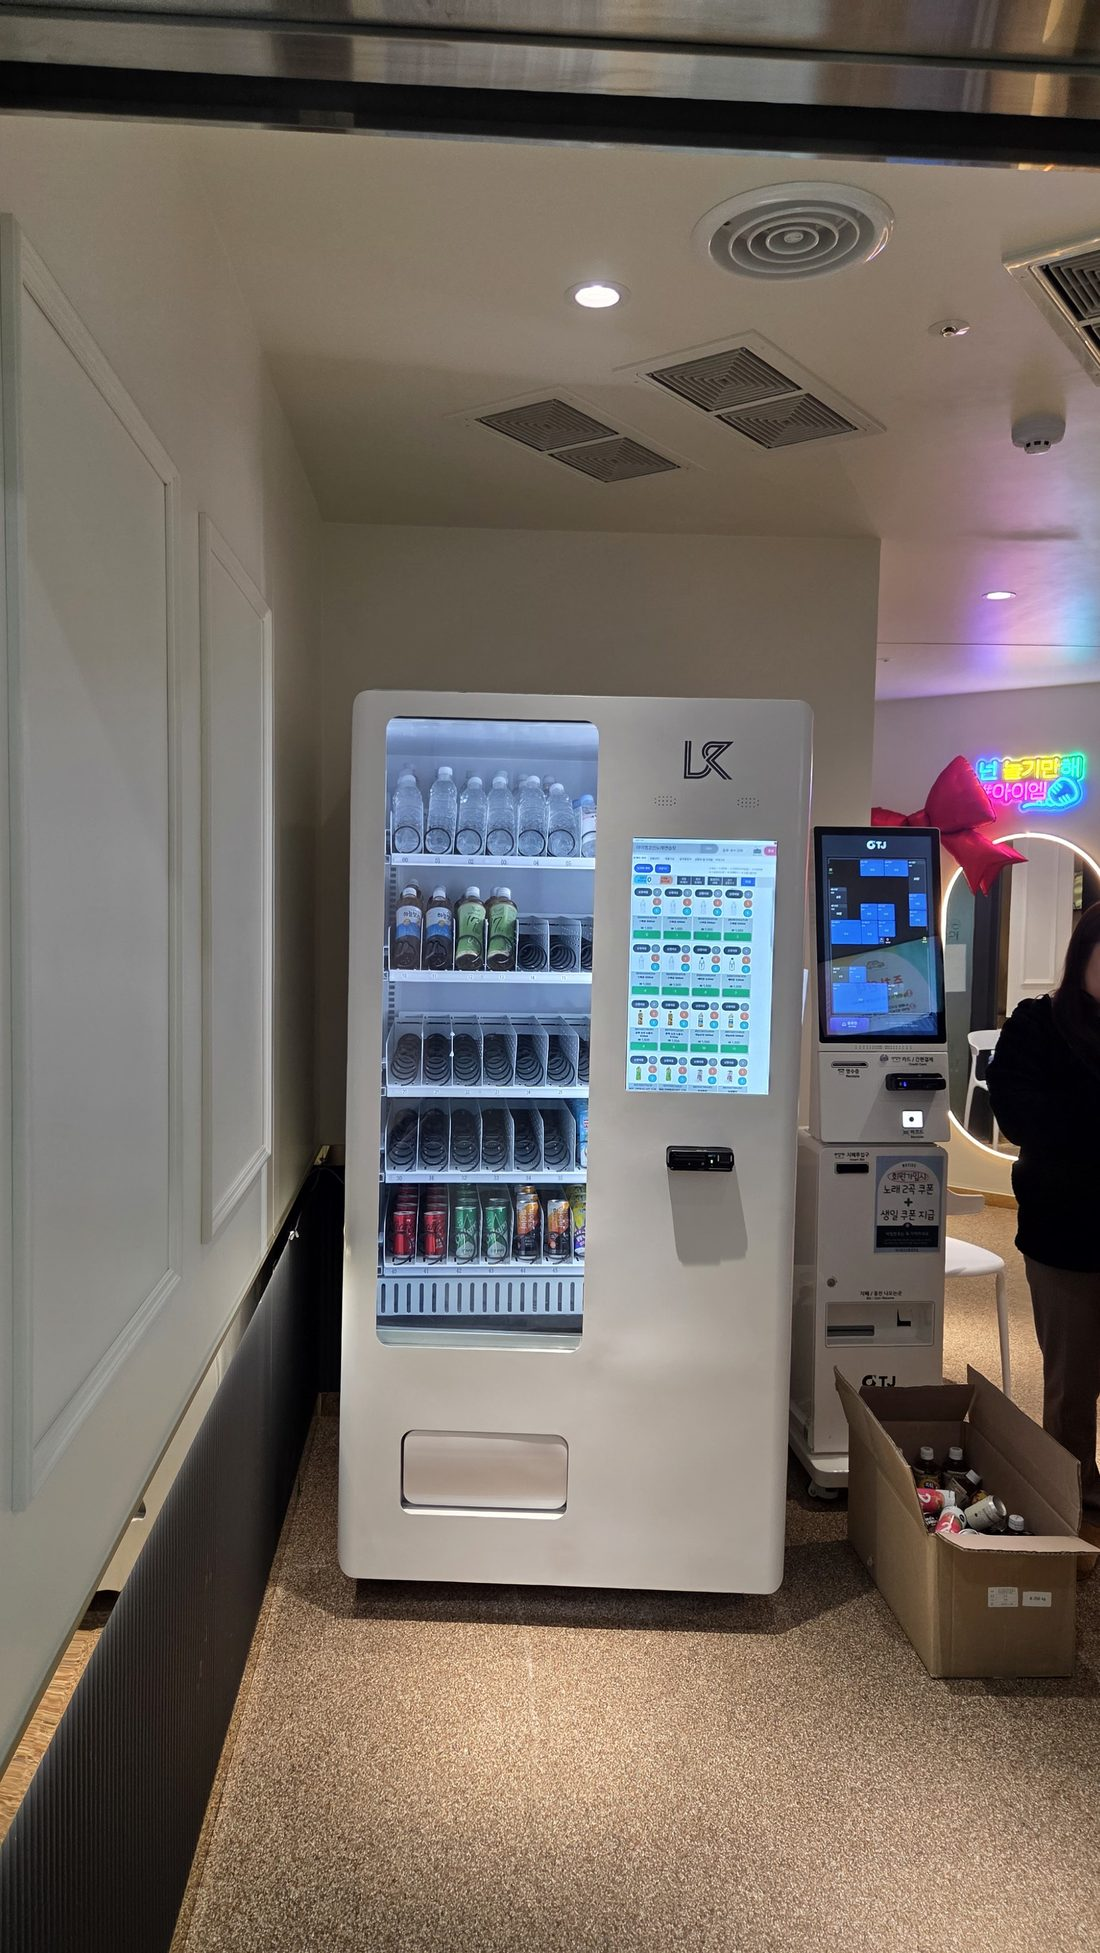
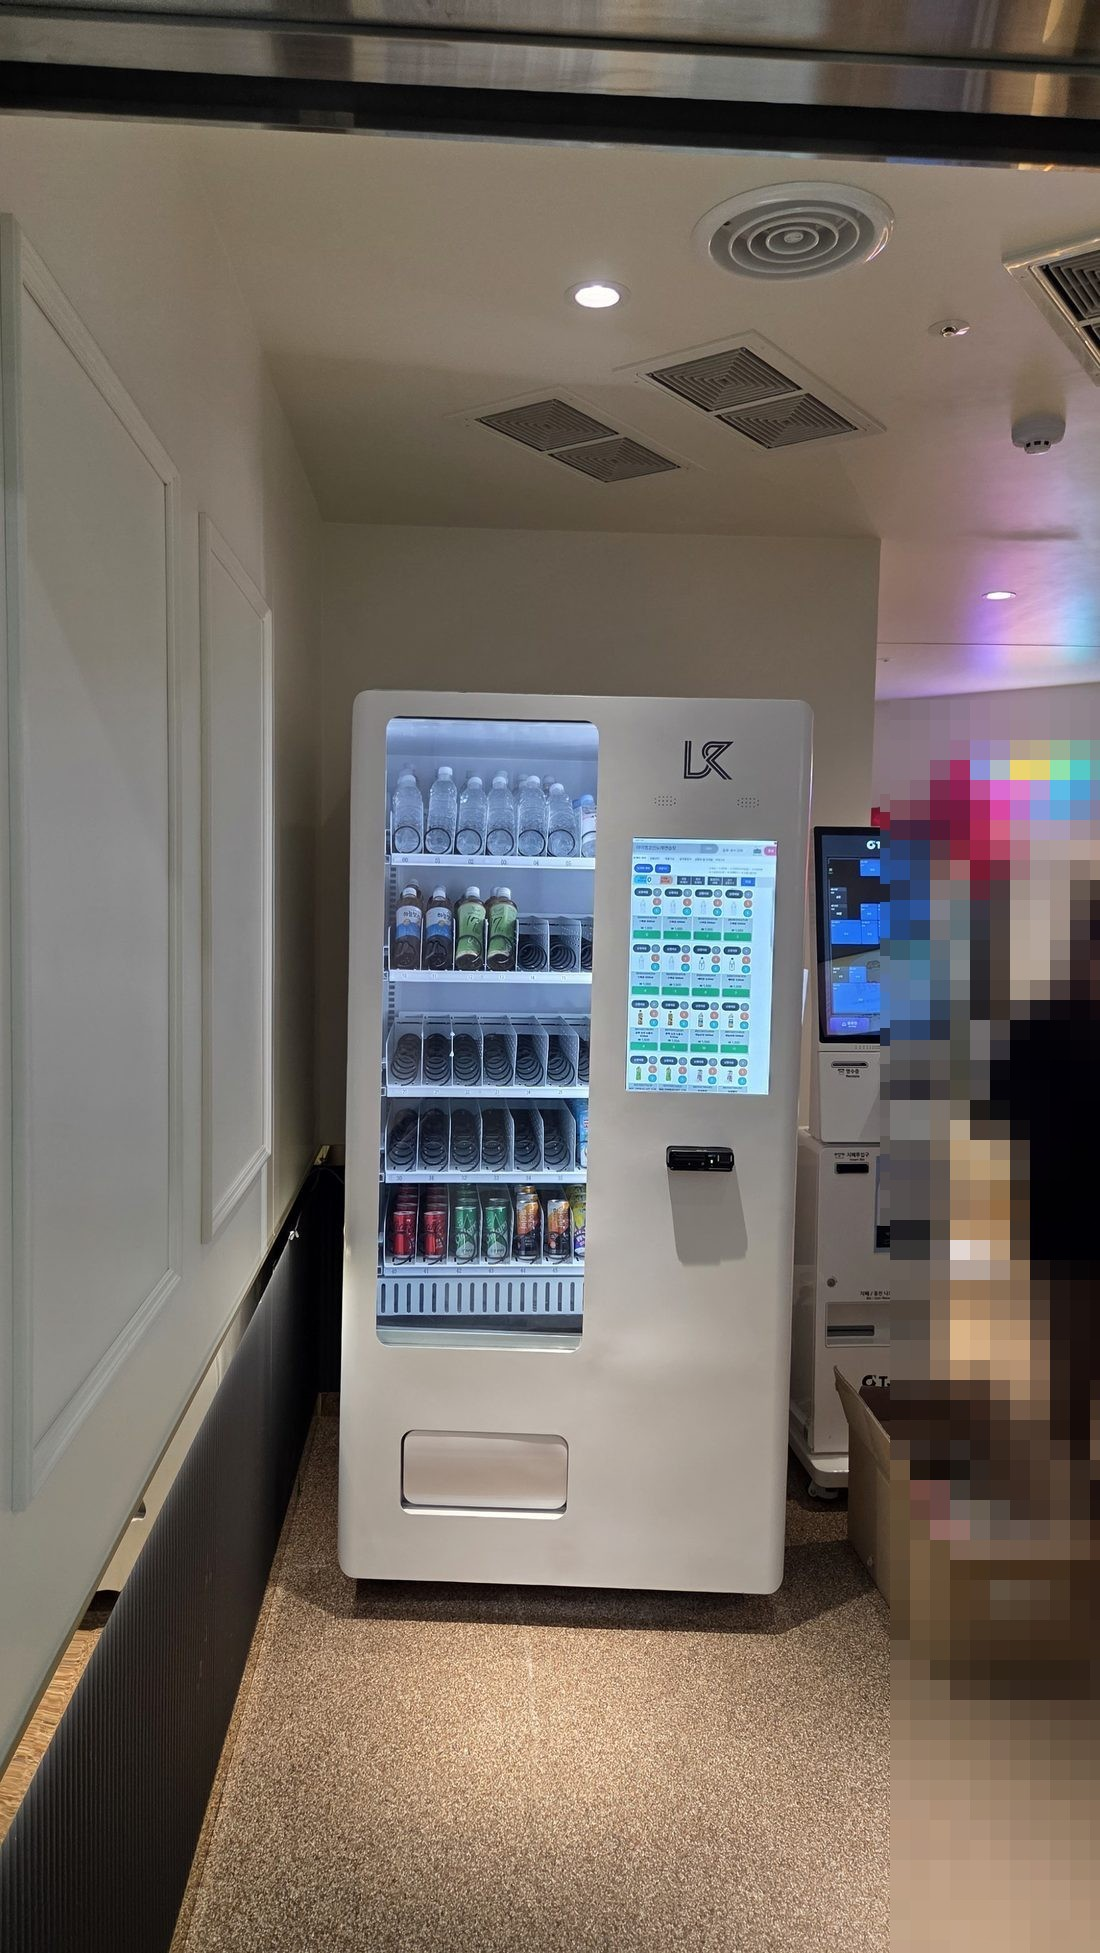
철거/원상복구 탭에 실제 시공 현장 사진 16곳 후기 추가, 인물 모자이크 처리
전국 매장 철거 실제 현장 사진 16곳을 철거/원상복구 탭 후기 섹션에 추가.
사진에 등장한 인물은 모두 모자이크 처리. 기존 설치 후기(카라오케,
택시라운지)의 인물도 함께 모자이크 처리.

Changed region(s): [[0.8036, 0.3748, 1.0, 1.0]]

diff --git a/index.html b/index.html
@@ -656,11 +656,74 @@ footer { background: var(--black); color: #8f8f8a; padding: 34px 0 100px; font-s
   <div class="wrap">
     <div class="sec-head reveal">
       <span class="kicker">REVIEW</span>
-      <h2 class="display">철거/원상복구 설치 후기</h2>
+      <h2 class="display">철거/원상복구 실제 시공 현장</h2>
+      <p>전국 각지 매장·상가 철거 현장입니다. (인물은 모자이크 처리했습니다)</p>
     </div>
-    <div class="news-empty">
-      <span class="emo">🛠</span>
-      철거/원상복구 후기를 준비 중입니다.<br>곧 만나보실 수 있어요.
+    <div class="review-grid">
+      <div class="review reveal">
+        <div class="ph"><img src="images/demo-gwangju-jangjak.jpg" alt="경기 광주 참나무장작구이 철거 현장" loading="lazy"></div>
+        <div class="body"><span class="type">치킨전문점</span><div class="loc"><b>경기 광주 · 참나무장작구이</b></div></div>
+      </div>
+      <div class="review reveal">
+        <div class="ph"><img src="images/demo-namyangju-vintage.jpg" alt="경기 남양주 빈티지마트 철거 현장" loading="lazy"></div>
+        <div class="body"><span class="type">의류매장</span><div class="loc"><b>경기 남양주 · 빈티지마트</b></div></div>
+      </div>
+      <div class="review reveal">
+        <div class="ph"><img src="images/demo-ansan-pizza.jpg" alt="경기 안산 59쌀피자 철거 현장" loading="lazy"></div>
+        <div class="body"><span class="type">피자전문점</span><div class="loc"><b>경기 안산 · 59쌀피자</b></div></div>
+      </div>
+      <div class="review reveal">
+        <div class="ph"><img src="images/demo-yongin-chaektong.jpg" alt="경기 용인 책통 철거 현장" loading="lazy"></div>
+        <div class="body"><span class="type">도서대여점</span><div class="loc"><b>경기 용인 · 책통</b></div></div>
+      </div>
+      <div class="review reveal">
+        <div class="ph"><img src="images/demo-hanam-hair.jpg" alt="경기 하남 샹오르헤어 철거 현장" loading="lazy"></div>
+        <div class="body"><span class="type">미용실</span><div class="loc"><b>경기 하남 · 샹오르헤어</b></div></div>
+      </div>
+      <div class="review reveal">
+        <div class="ph"><img src="images/demo-gwangju-ppyeong.jpg" alt="광주 뿅간다 불뼈구이 철거 현장" loading="lazy"></div>
+        <div class="body"><span class="type">음식점</span><div class="loc"><b>광주 · 뿅간다 불뼈구이</b></div></div>
+      </div>
+      <div class="review reveal">
+        <div class="ph"><img src="images/demo-gwangju-ibeoboda.jpg" alt="광주 입어보다 철거 현장" loading="lazy"></div>
+        <div class="body"><span class="type">의류매장</span><div class="loc"><b>광주 · 입어보다</b></div></div>
+      </div>
+      <div class="review reveal">
+        <div class="ph"><img src="images/demo-guro-toast.jpg" alt="구로 이삭토스트 철거 현장" loading="lazy"></div>
+        <div class="body"><span class="type">토스트전문점</span><div class="loc"><b>서울 구로 · 이삭토스트</b></div></div>
+      </div>
+      <div class="review reveal">
+        <div class="ph"><img src="images/demo-kkakkaeng-pet.jpg" alt="까까댕 애견미용실 철거 현장" loading="lazy"></div>
+        <div class="body"><span class="type">반려동물미용</span><div class="loc"><b>까까댕 애견미용실</b></div></div>
+      </div>
+      <div class="review reveal">
+        <div class="ph"><img src="images/demo-daehan-susan.jpg" alt="대한수산 철거 현장" loading="lazy"></div>
+        <div class="body"><span class="type">수산물판매점</span><div class="loc"><b>대한수산</b></div></div>
+      </div>
+      <div class="review reveal">
+        <div class="ph"><img src="images/demo-nowon-chicken.jpg" alt="서울 노원구 또봉이통닭 철거 현장" loading="lazy"></div>
+        <div class="body"><span class="type">치킨전문점</span><div class="loc"><b>서울 노원구 · 또봉이통닭</b></div></div>
+      </div>
+      <div class="review reveal">
+        <div class="ph"><img src="images/demo-seocho-karaoke.jpg" alt="서울 서초 스타노래방 철거 현장" loading="lazy"></div>
+        <div class="body"><span class="type">노래연습장</span><div class="loc"><b>서울 서초 · 스타노래방</b></div></div>
+      </div>
+      <div class="review reveal">
+        <div class="ph"><img src="images/demo-season1-pc.jpg" alt="시즌원 피씨방 철거 현장" loading="lazy"></div>
+        <div class="body"><span class="type">PC방</span><div class="loc"><b>시즌원 피씨방</b></div></div>
+      </div>
+      <div class="review reveal">
+        <div class="ph"><img src="images/demo-incheon-dance.jpg" alt="인천 정미심무용학원 철거 현장" loading="lazy"></div>
+        <div class="body"><span class="type">무용학원</span><div class="loc"><b>인천 · 정미심무용학원</b></div></div>
+      </div>
+      <div class="review reveal">
+        <div class="ph"><img src="images/demo-nonsan-nice.jpg" alt="충남 논산 나이스시 철거 현장" loading="lazy"></div>
+        <div class="body"><span class="type">일식/초밥</span><div class="loc"><b>충남 논산 · 나이스시</b></div></div>
+      </div>
+      <div class="review reveal">
+        <div class="ph"><img src="images/demo-cheonan-pho.jpg" alt="충남 천안 성거하노이쌀국수 철거 현장" loading="lazy"></div>
+        <div class="body"><span class="type">베트남쌀국수</span><div class="loc"><b>충남 천안 · 성거하노이쌀국수</b></div></div>
+      </div>
     </div>
   </div>
 </section>
